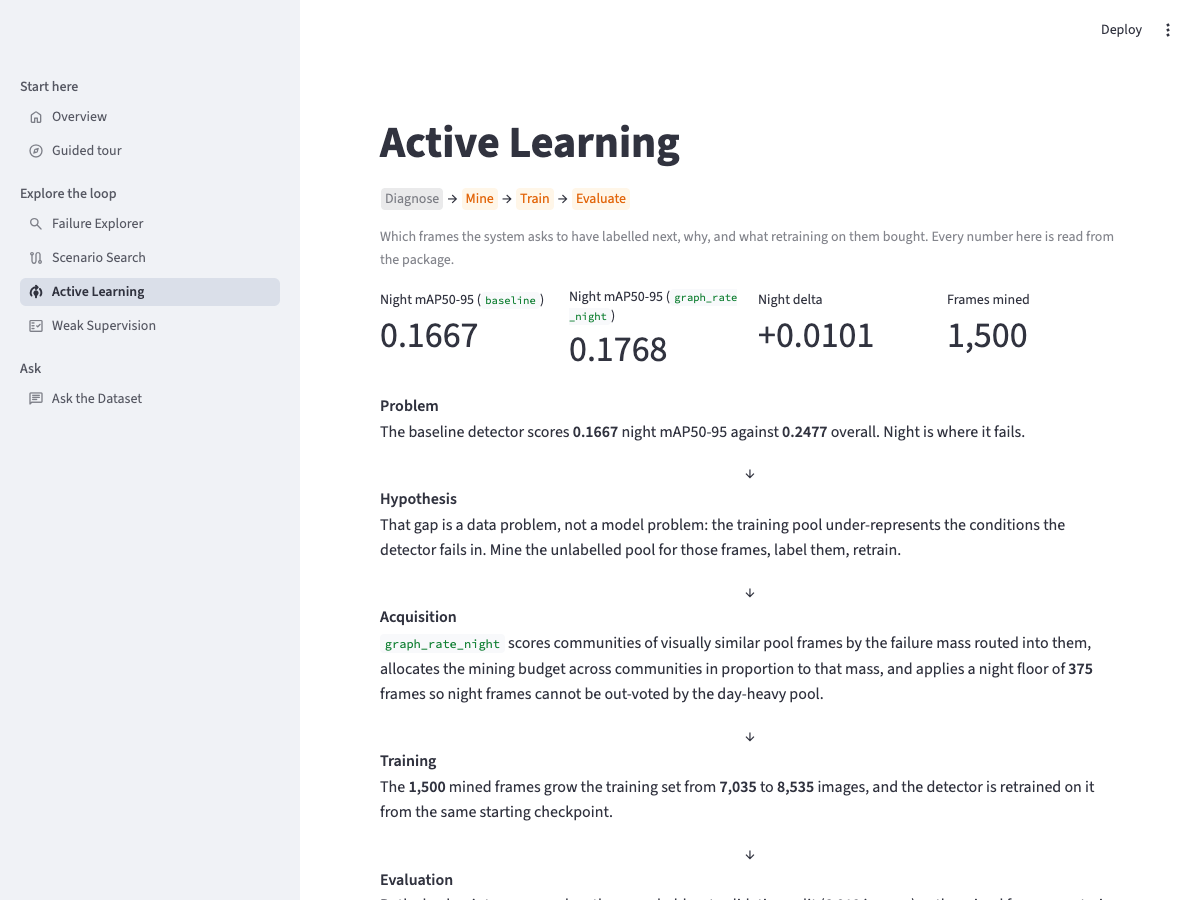
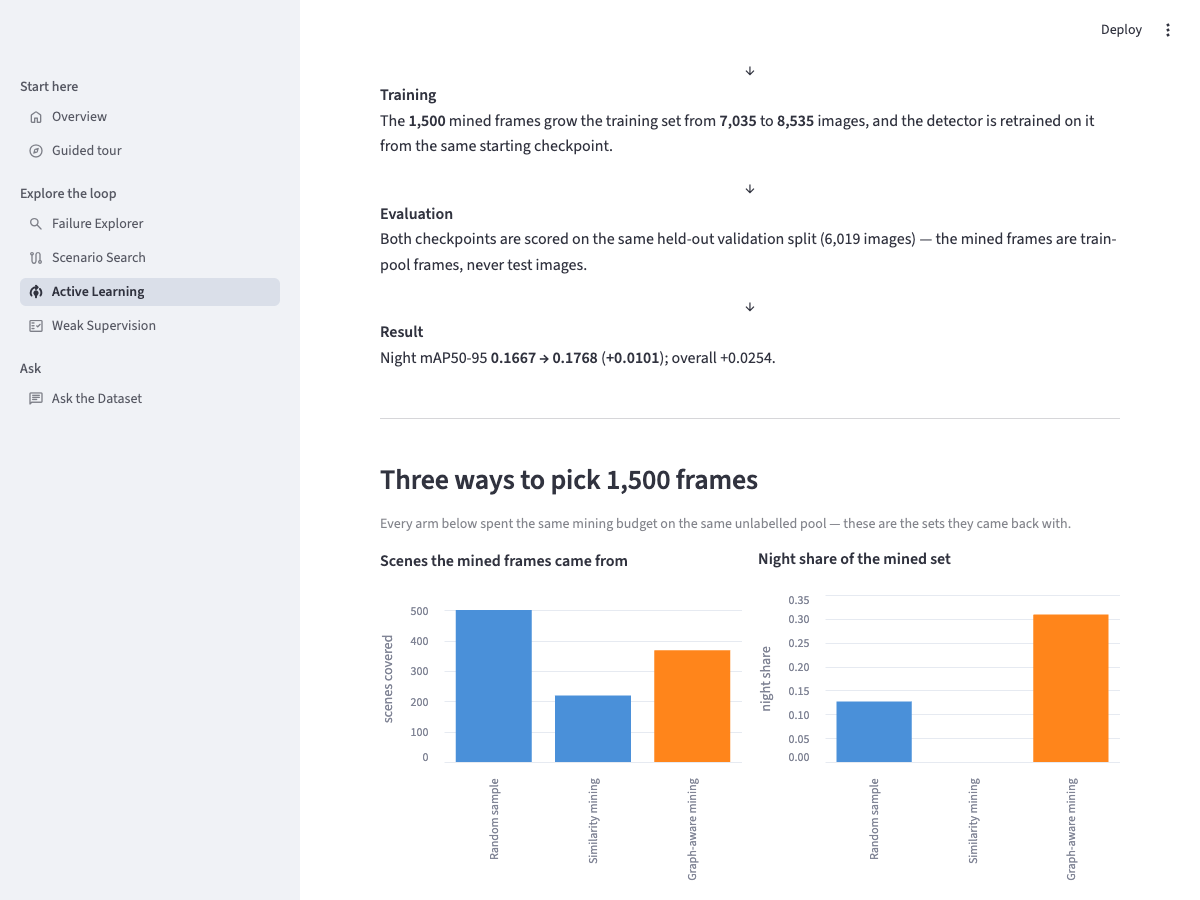
demo: Phase 9b final-review follow-ups (screenshot framing modes, docs drift, spec/plan amendments) + re-shot gallery
The screenshots script now frames each page deliberately (REVEAL steers
Scenario Search to the one-screen viewer and Active Learning to the strategy
comparison; the Failure Explorer joins NO_CLICK since its detail is the first
block); DEMO.md drift fixed (three-per-row cards, single not-curated caption,
v0.8 runbook comment, measured infer timing, screenshot framing note); spec/plan
carry a dated per_row=3 amendment.

diff --git a/scripts/demo_screenshots.py b/scripts/demo_screenshots.py
@@ -25,16 +25,18 @@ Usage
 -----
        .venv/bin/python scripts/demo_screenshots.py [--base http://localhost:8599] [--out docs/img]
 
-Each page is loaded, given time to finish its first run, and -- where the page has
-a frame gallery -- has its first "View" button clicked so the detail panel is open
-in the shot rather than an empty placeholder. The four pages in `NO_CLICK` have no
-such gallery on their first screen: Scenario Search's own per-event "View" buttons
-sit below its title, breadcrumb and preset buttons, so a blind first-match click
-opens an event's detail panel and leaves the shot scrolled past all three. Those
-four pages are captured at scroll position 0 instead, so the title is visible
-rather than whatever the click would have landed on. Exits non-zero if any page
-rendered a Streamlit exception, so a broken page cannot quietly become a README
-screenshot.
+Each page is loaded and given time to finish its first run, then framed one of
+three ways. Pages in `REVEAL` are steered to the section their README gallery
+caption names (Scenario Search: the flagship event's one-screen viewer with the
+CAN curves; Active Learning: the acquisition-strategy comparison) by clicking
+the listed buttons and scrolling to a landmark. Pages in `NO_CLICK` are captured
+at scroll position 0 (title visible) because their first screen already leads
+with the content the caption names -- the Failure Explorer's auto-selected
+detail is its first block since Phase 9b, so the old blind "View" click would
+scroll the shot past the title, image and model radio. Any other page has its
+first "View" button clicked so a detail panel is open in the shot rather than an
+empty placeholder. Exits non-zero if any page rendered a Streamlit exception, so
+a broken page cannot quietly become a README screenshot.
 
 Any capture over 300 KB is quantized in place to a 256-colour palette PNG
 (Pillow, already an app dependency) so the committed screenshots stay small; the
@@ -69,11 +71,21 @@ PAGES: tuple[tuple[str, str], ...] = (
     ("chat_replay", "demo-chat-replay"),
 )
 
-# Pages with no frame gallery on their first screen: skip the "View" click and
-# capture at scroll position 0 (title visible) instead of clicking blind.
-NO_CLICK: frozenset[str] = frozenset(
-    {"tour", "scenarios", "active_learning", "weak_supervision"}
-)
+# Pages captured at scroll position 0 (title visible): their first screen already
+# leads with the content the gallery caption names, so no click and no scroll.
+NO_CLICK: frozenset[str] = frozenset({"tour", "failures", "weak_supervision"})
+
+# Pages steered to a specific section before the shot, so the gallery shows the
+# element its README caption names (Phase 9b hooks). Each entry is a sequence of
+# ("click", button text) / ("scroll_to", visible text) steps, run in order.
+REVEAL: dict[str, tuple[tuple[str, str], ...]] = {
+    "scenarios": (
+        ("click", "Hard braking near pedestrians"),
+        ("click", "View"),
+        ("scroll_to", "CAN speed"),
+    ),
+    "active_learning": (("scroll_to", "Three ways to pick"),),
+}
 
 VIEWPORT = {"width": 1200, "height": 900}
 STATUS_WIDGET = '[data-testid="stStatusWidget"]'  # Streamlit's "Running..." indicator
@@ -97,7 +109,7 @@ def _compress_if_large(target: Path) -> None:
     print(f"  compressed {target.name}: {before / 1024:.0f} KB -> {after / 1024:.0f} KB")
 
 
-def _capture(page: Page, url: str, target: Path, *, click_view: bool) -> bool:
+def _capture(page: Page, url: str, target: Path, *, slug: str) -> bool:
     """Screenshot one demo page's viewport. Returns False if the page raised."""
     page.goto(url)
     # The status widget is absent entirely on a page that finishes before it is
@@ -105,13 +117,25 @@ def _capture(page: Page, url: str, target: Path, *, click_view: bool) -> bool:
     with contextlib.suppress(Exception):
         page.wait_for_selector(STATUS_WIDGET, state="detached", timeout=FIRST_RUN_TIMEOUT_MS)
     page.wait_for_timeout(SETTLE_MS)
-    if click_view:
+    if slug in REVEAL:
+        for action, text in REVEAL[slug]:
+            if action == "click":
+                page.locator(f'button:has-text("{text}")').first.click()
+                with contextlib.suppress(Exception):
+                    page.wait_for_selector(
+                        STATUS_WIDGET, state="detached", timeout=FIRST_RUN_TIMEOUT_MS
+                    )
+                page.wait_for_timeout(SETTLE_MS)
+            else:  # "scroll_to"
+                page.get_by_text(text, exact=False).first.scroll_into_view_if_needed()
+                page.wait_for_timeout(500)
+    elif slug in NO_CLICK:
+        page.evaluate("window.scrollTo(0, 0)")
+    else:
         view = page.locator('button:has-text("View")').first
         if view.count():
             view.click()
             page.wait_for_timeout(SETTLE_MS)
-    else:
-        page.evaluate("window.scrollTo(0, 0)")
     page.screenshot(path=str(target))
     _compress_if_large(target)
     return page.locator(EXCEPTION_MARKER).count() == 0
@@ -152,7 +176,7 @@ def main(argv: list[str] | None = None) -> int:
         for url_path, stem in PAGES:
             target = out_dir / f"{stem}.png"
             clean = _capture(
-                page, f"{base}/{url_path}", target, click_view=url_path not in NO_CLICK
+                page, f"{base}/{url_path}", target, slug=url_path
             )
             size_kb = target.stat().st_size / 1024
             note = "" if clean else "   ** Streamlit exception on this page **"

diff --git a/docs/DEMO.md b/docs/DEMO.md
@@ -290,7 +290,7 @@ uv sync --extra train --extra engine     # torch/ultralytics for inference + Sig
 uv run nuscenes-data-engine demo curate  # 250 tokens -> data/demo_curation/ (+ rsync_filelist.txt)
 rsync -a --files-from=data/demo_curation/rsync_filelist.txt \
   TRINITY:/data/ggare/datasets/nuscenes/ data/raw/demo_frames/   # ~44 MB, read-only source
-uv run nuscenes-data-engine demo infer   # 5 checkpoints over the val frames (CPU, ~1 min)
+uv run nuscenes-data-engine demo infer   # 5 checkpoints over the val frames (CPU; measured 40 s, 2026-08-23)
 uv run nuscenes-data-engine demo build   # package v0.2 with the curation group
 ```
 
@@ -366,7 +366,7 @@ non-front-camera store) and labelled as such; per-query hit counts are shown.
 
 **Phase 9b put the viewer on one screen** and gave a still frame its missing motion
 cue. The layout is: header line (scene · severity · the compact SQL/Cypher parity
-line · provenance) → the frame beside **two step curves** → **one row of six cards**
+line · provenance) → the frame beside **two step curves** → **six cards, three to a row**
 → the filmstrip → the graph panel. The curves are the real CAN bus: speed from
 v0.8's `can_speed_kmh` / `can_speed_t_*` (km/h) and longitudinal acceleration from
 `accel_long_min_mps2` / `accel_t_*` (m/s²), plotted over the five keyframe steps with
@@ -380,8 +380,8 @@ accel, a **preset-aware VRU distance** card (min cyclist distance under
 `fast_cyclists`, min pedestrian distance everywhere else — `rain_vru` keeps the
 pedestrian card because the nearer of its two VRUs is already the grid caption),
 pedestrians within 10 m, lighting/rain, and the model result (or the short
-"not curated" value with the full "not in the curated prediction set" sentence as a
-caption under the row). The filmstrip's per-step readout stays the **GT ego-pose
+"not curated" value — the full "not in the curated prediction set" sentence stays
+the viewer's caption beside the frame, rendered exactly once). The filmstrip's per-step readout stays the **GT ego-pose
 speed in m/s** and now names that source out loud (it reads "ego N.N m/s"). The two
 readings really do differ on the same keyframe — across the 126 shipped events the
 CAN reading is a median 3 % off the ego-pose one and 5 % of events are more than
@@ -553,7 +553,7 @@ docker compose up -d neo4j                    # so the agent is offered run_cyph
 # the five showcase questions (the ones whose `expect` is asserted):
 uv run nuscenes-data-engine demo chat-record --provider anthropic --limit 5
 uv run nuscenes-data-engine demo chat-record --provider anthropic   # full run
-uv run nuscenes-data-engine demo build                              # package v0.7
+uv run nuscenes-data-engine demo build                              # package v0.8
 ```
 
 The full run is ≈25 Claude answers — the graded eval cases plus the five showcase
@@ -671,11 +671,14 @@ uv pip uninstall playwright
 ```
 
 It drives the machine's installed Google Chrome (`channel="chrome"`, so no browser
-download), shoots a 1200×900 viewport per page, opens the first frame-detail panel
-where a page has one — the Guided tour, Active learning, and Weak supervision pages
-have none, so those three are captured at the top of the page (scroll position 0,
-title visible) instead — and **exits non-zero if any page rendered a Streamlit
-exception** — a broken page cannot quietly become a README screenshot. Re-run it
+download), shoots a 1200×900 viewport per page, and frames each one deliberately: the
+Guided tour, Failure Explorer and Weak Supervision are captured at the top of the
+page (their first screen leads with the content the gallery caption names — the
+Failure Explorer's detail is its auto-selected first block since Phase 9b);
+Scenario Search and Active Learning are steered to their Phase-9b sections first
+(the flagship event's one-screen viewer with the CAN curves; the
+acquisition-strategy comparison); any other page has its first frame-detail panel
+opened. It **exits non-zero if any page rendered a Streamlit exception** — a broken page cannot quietly become a README screenshot. Re-run it
 whenever a page changes visibly; any capture over 300 KB is quantized to a
 256-colour palette PNG by the script itself, no manual compression step needed.
 
@@ -695,7 +698,7 @@ deployed URL.
 | 2 | Where does the baseline perception model fail? | Guided tour + Failure Explorer | tour step 2, **One missed pedestrian** (the hero frame, per-model claims), and Failure Explorer's **Detail** — now the first block on the page, auto-selected, with the **Model** radio and the GT / Predictions / Overlay toggle beside the image | local: 2026-08-23 · live: pending |
 | 3 | How does the system find difficult data? | Guided tour + Scenario Search | tour step 3, **Find more like it** (the flagship event), and the six **preset** buttons + ranked card grid | local: 2026-08-22 · live: pending |
 | 4 | Why is the graph useful? | Scenario Search | the compact `parity_short` line in the event viewer header (visible once an event is opened — flagship 30 events found · SQL 30 / Graph 30 ✓), and the same viewer's **Interactive graph** panel, whose **Reveal the matched path** slider walks Scene → Keyframe → nearest matching objects → Ego pose one step at a time (amber = revealed, hollow = still to come) | local: 2026-08-23 · live: pending |
-| 5 | What does CAN-bus data add? | Scenario Search (+ Overview) | the event viewer's two **CAN curves** beside the frame (speed km/h + longitudinal accel m/s² over t−2…t+2, the rule following the filmstrip slider), the **CAN speed** card in the six-card row, and the filmstrip's own ego-pose readout; Overview's **CAN speed vs ego-motion** card (r), inside the **Dataset scale & data checks** expander | local: 2026-08-23 · live: pending |
+| 5 | What does CAN-bus data add? | Scenario Search (+ Overview) | the event viewer's two **CAN curves** beside the frame (speed km/h + longitudinal accel m/s² over t−2…t+2, the rule following the filmstrip slider), the **CAN speed** card in the metric grid, and the filmstrip's own ego-pose readout; Overview's **CAN speed vs ego-motion** card (r), inside the **Dataset scale & data checks** expander | local: 2026-08-23 · live: pending |
 | 6 | How does active learning choose frames? | Guided tour + Active Learning | tour step 4, **Why this frame was picked** (the `selection_factors` panel), and the deep page's **Three ways to pick 1,500 frames** strategy charts plus the **Why was this frame selected?** panel, whose reason chips head the factor lines | local: 2026-08-23 · live: pending |
 | 7 | Did targeted retraining improve performance? | Guided tour + Active Learning | tour steps 5-6, **Retrain on what was found** / **Same kind of frame, after**, plus the deep page's **Every arm, one chart** (13 arms in round order) and **Before / after** exemplars | local: 2026-08-22 · live: pending |
 | 8 | How well did VLM-generated supervision work? | Weak Supervision | the retention cards (GT gain retained + verifier retention), **One frame, three views** (what the VLM's counts kept on a train-pool frame, and what the weak-trained checkpoint vs its GT-labelled twin then did on a held-out val frame), and **What the VLM saw** accepted/rejected galleries | local: 2026-08-23 · live: pending |

diff --git a/docs/superpowers/plans/2026-08-22-demo-phase9b.md b/docs/superpowers/plans/2026-08-22-demo-phase9b.md
@@ -53,7 +53,7 @@
 
 **Files:** modify `app/demo/views/scenarios.py`, `app/demo/views/tour.py`; tests `tests/test_demo_app.py`.
 
-- [ ] Failing tests: selecting the fixture event shows ≥ 2 `vega_lite_chart`s in the viewer whose specs contain the step labels; moving `scenario_filmstrip` to `t-1` changes the rule in both charts (inspect the chart spec's rule datum); exactly one metric row (six `st.metric`s) between the frame and the filmstrip — the old three panels' headings are gone; the compact parity line, `recorded experiment output` caption and `_MODEL_GT_ONLY_NOTE` still render; tour step 2 shows two charts under its filmstrip; an old package without `can_speed_*` (fixture variant that drops the columns from `scenario_events.parquet`) titles the speed chart "ego speed" and raises nothing.
+- [ ] Failing tests: selecting the fixture event shows ≥ 2 `vega_lite_chart`s in the viewer whose specs contain the step labels; moving `scenario_filmstrip` to `t-1` changes the rule in both charts (inspect the chart spec's rule datum); exactly six `st.metric`s between the frame and the filmstrip (amended 2026-08-23: rendered `per_row=3` after the browser walk found sixth-width cards clipping) — the old three panels' headings are gone; the compact parity line, `recorded experiment output` caption and `_MODEL_GT_ONLY_NOTE` still render; tour step 2 shows two charts under its filmstrip; an old package without `can_speed_*` (fixture variant that drops the columns from `scenario_events.parquet`) titles the speed chart "ego speed" and raises nothing.
 - [ ] RED → implement spec §2 (header line; `st.columns([3, 2])`; `line_chart` pair; merged metric row; filmstrip slider drives `selected`) → GREEN; ruff; mypy.
 - [ ] Commit `demo: one-screen Scenario viewer with the CAN speed/accel curve (also on tour step 2)`.
 

diff --git a/docs/superpowers/specs/2026-08-22-demo-phase9b-design.md b/docs/superpowers/specs/2026-08-22-demo-phase9b-design.md
@@ -110,7 +110,10 @@ of these as a visual hook. Everything stays derived from the package.
   · provenance) → `st.columns([3, 2])`: the frame | the two curves (CAN speed, CAN
   accel; rule at the slider step) → **one metric row** (CAN speed, min longitudinal
   accel, min pedestrian distance, pedestrians within 10 m, lighting/rain, model
-  result or the not-curated note) → filmstrip + `scenario_filmstrip` slider (drives
+  result or the not-curated note; amendment 2026-08-23, browser walk: the six
+  cards render three to a row — a sixth-width st.metric clipped the speed/accel/
+  model values — and the not-curated sentence stays the viewer's single caption
+  beside the frame) → filmstrip + `scenario_filmstrip` slider (drives
   the curve rule too) → graph panel (§3). The existing pinned notes
   (`_GRAPH_LEGEND`, `_GRAPH_ABSENT_NOTE`, `_GRAPH_EVENT_ABSENT_NOTE`,
   `_MODEL_GT_ONLY_NOTE`), the compact parity line and `recorded experiment output`
